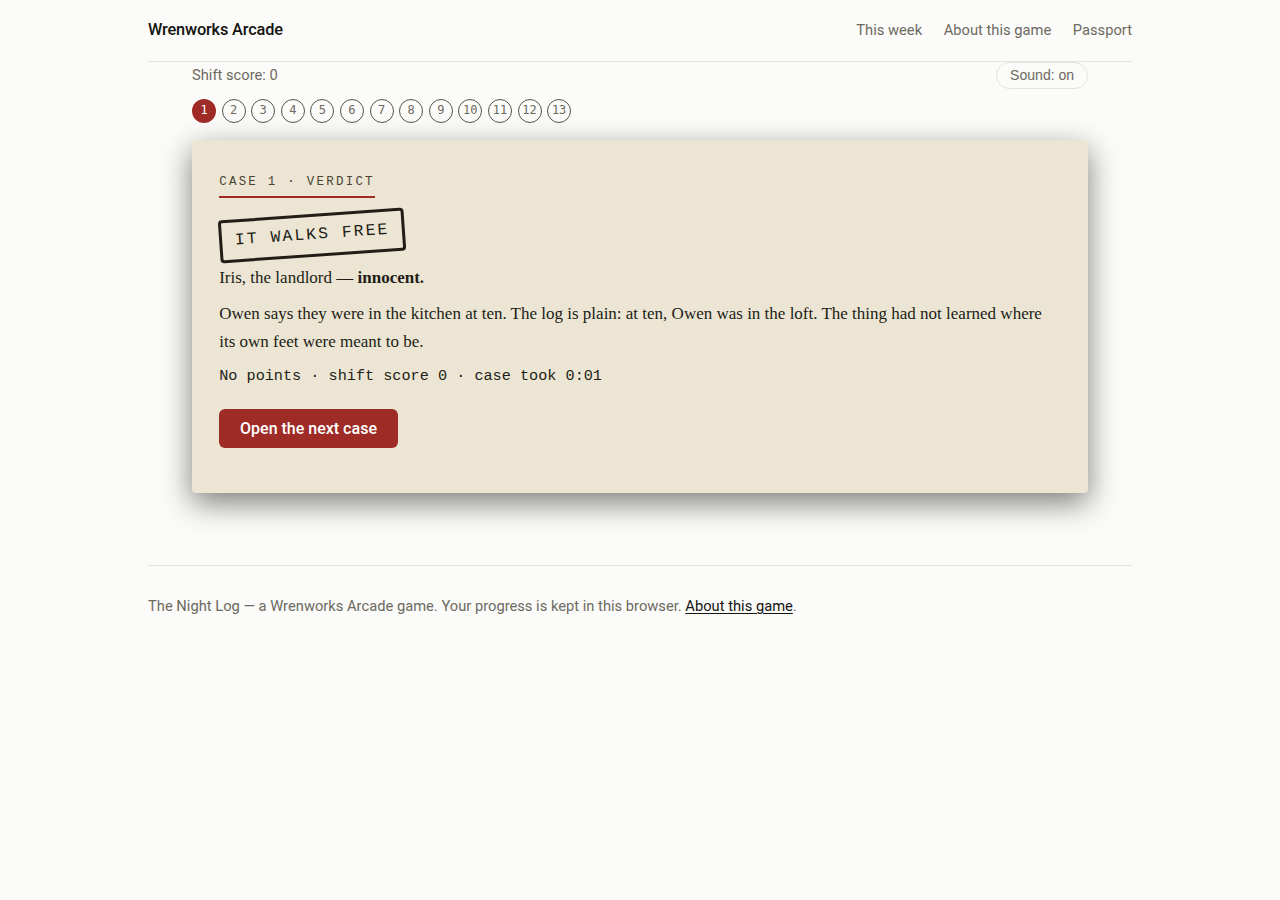
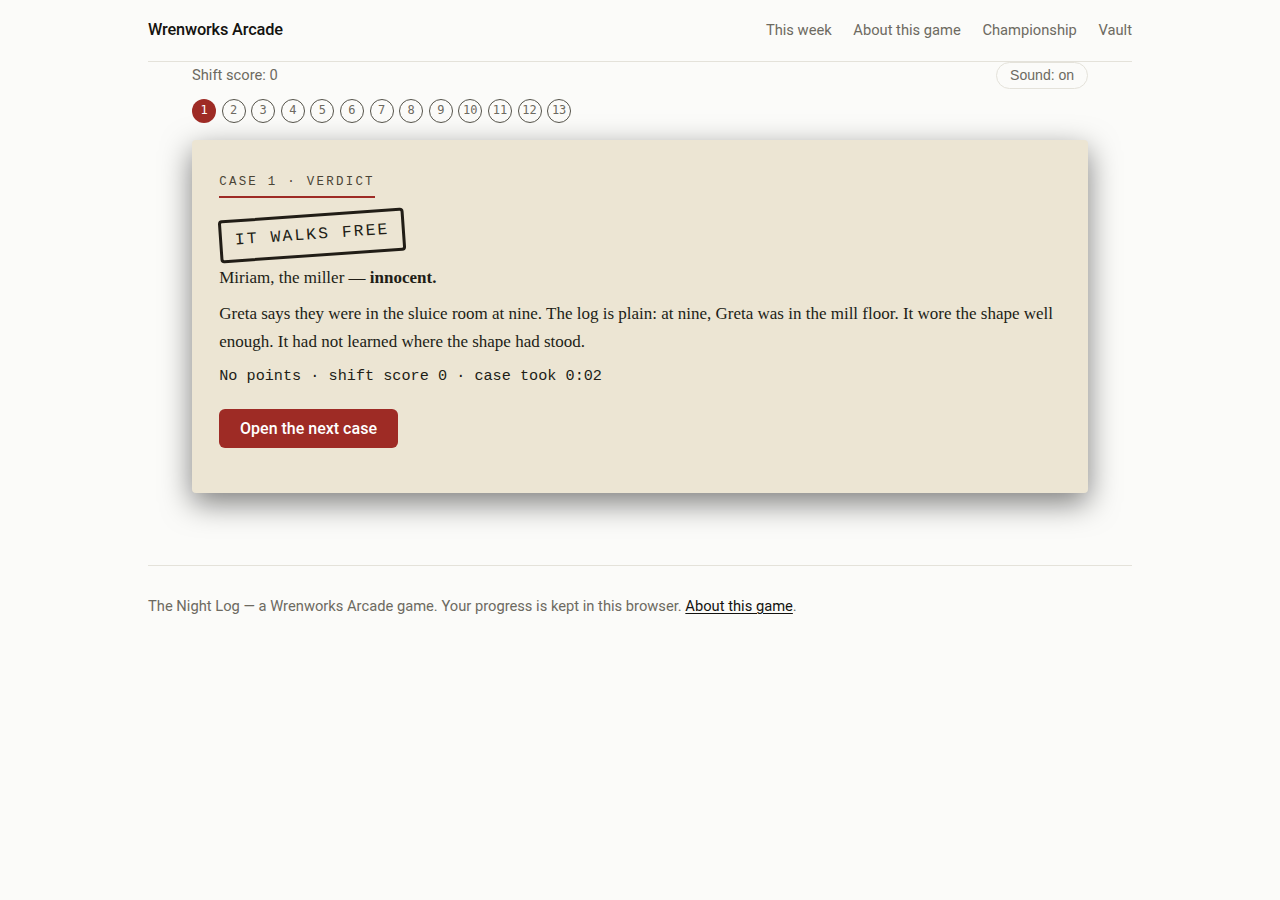
About and Passport pages removed; championship is this game's only
Nav is now This week, Championship, Vault. The championship counts
The Night Log and nothing else — next week's game gets its own.
The footer line about the games living only on this site is gone.
Kit stays named in the signup small print, where the form explains
its confirmation email. The game screenshots were retaken under
the current header, and the start screen now says 'Your record'.

Changed region(s): [[0.1562, 0.28, 0.8125, 0.4044], [0.5938, 0.0311, 0.875, 0.0622]]

diff --git a/championship/index.html b/championship/index.html
@@ -3,17 +3,17 @@
 <head>
 <meta charset="utf-8">
 <meta name="viewport" content="width=device-width, initial-scale=1">
-<title>Arcade Championship — The Wrenworks Arcade</title>
-<meta name="description" content="The all-time Arcade Championship: points for finishing games and winning medals across every game in the Wrenworks Arcade.">
+<title>The Night Log Championship — The Wrenworks Arcade</title>
+<meta name="description" content="The championship for this week's game, The Night Log: your points and medals for this game, kept in your browser for now.">
 <meta property="og:type" content="website">
 <meta property="og:site_name" content="Wrenworks Arcade">
-<meta property="og:title" content="Arcade Championship — The Wrenworks Arcade">
-<meta property="og:description" content="The Arcade Championship: your points for finishing games and winning medals across the Wrenworks Arcade, kept in your browser for now.">
+<meta property="og:title" content="The Night Log Championship — The Wrenworks Arcade">
+<meta property="og:description" content="The championship for this week's game, The Night Log: your points and medals for this game, kept in your browser for now.">
 <meta property="og:url" content="https://wrenly40.github.io/championship/">
 <meta property="og:image" content="https://wrenly40.github.io/games/the-night-log/assets/nightlog-case.png">
 <meta name="twitter:card" content="summary_large_image">
-<meta name="twitter:title" content="Arcade Championship — The Wrenworks Arcade">
-<meta name="twitter:description" content="The Arcade Championship: your points for finishing games and winning medals across the Wrenworks Arcade, kept in your browser for now.">
+<meta name="twitter:title" content="The Night Log Championship — The Wrenworks Arcade">
+<meta name="twitter:description" content="The championship for this week's game, The Night Log: your points and medals for this game, kept in your browser for now.">
 <meta name="twitter:image" content="https://wrenly40.github.io/games/the-night-log/assets/nightlog-case.png">
 <link rel="stylesheet" href="../arcade.css">
 </head>
@@ -25,40 +25,42 @@
   <nav>
     <a href="../index.html">This week</a>
     <a href="index.html" class="here">Championship</a>
-    <a href="../passport/index.html">Passport</a>
     <a href="../vault/index.html">Vault</a>
-    <a href="../about/index.html">About</a>
   </nav>
 </header>
 
 <main>
-<p class="kicker">All-time table</p>
-<h1>The Arcade Championship</h1>
-<p>Every game in the arcade feeds one table. Finish a game and you earn <strong>5 points</strong>. Medals earn more: bronze 10, silver 20, gold 30, and a Wren medal 50. Solving a game's daily-seed case earns 3. The table never resets — it is the long game the weekly games hang on.</p>
+<p class="kicker">Championship · This week's game</p>
+<h1>The Night Log Championship</h1>
+<p>This table belongs to this week's game — it counts The Night Log and nothing else. Finish a shift and you earn <strong>5 points</strong>. Your best medal earns its points on top: bronze 10, silver 20, gold 30, and a Wren medal 50. Next week's game gets a championship of its own.</p>
 <p class="muted">For now, this table is kept in your own browser, on this machine — your points, honestly come by. Shared tables, where everyone can see everyone, arrive when the arcade's score service opens.</p>
 
-<div id="champ-table"><p class="muted">No points yet. Finish this week's game and the first line of this table is yours.</p></div>
+<div id="champ-table"><p class="muted">No points yet. Finish The Night Log and the first line of this table is yours.</p></div>
 
-<h2>Each game's own board</h2>
-<p>Alongside the championship, every game keeps its own leaderboard — a shift score in The Night Log, and whatever each future game measures. A game's board closes when the game goes into the Vault, and the final table stays on its page for good.</p>
+<h2>The shift board</h2>
+<p>Every finished shift also lands on The Night Log's own board, on <a href="../games/the-night-log/index.html">its game page</a> — the scores themselves, shift by shift.</p>
 </main>
 
 <footer class="site">
-  <p>Wrenworks Arcade, made in London. <a href="../about/index.html">About the arcade</a>.</p>
+  <p>Wrenworks Arcade, made in London.</p>
 </footer>
 
 </div>
 <script src="../arcade-api.js"></script>
 <script>
 (function () {
-  var table = ArcadeAPI.getChampionship();
-  if (!table.length) return;
-  var html = '<table class="board"><tr><th>#</th><th>Player</th><th class="num">Points</th></tr>';
-  table.forEach(function (r, i) {
-    html += "<tr><td>" + (i + 1) + "</td><td>" + String(r.name).replace(/</g, "&lt;") +
-      '</td><td class="num">' + r.points + "</td></tr>";
-  });
-  document.getElementById("champ-table").innerHTML = html + "</table>";
+  var slug = "the-night-log";
+  var MEDAL_POINTS = { none: 0, bronze: 10, silver: 20, gold: 30, wren: 50 };
+  var g = ArcadeAPI.getPassport().games[slug];
+  if (!g || !g.plays) return;
+  var points = g.finishes * 5 + (MEDAL_POINTS[g.bestMedal] || 0);
+  var name = String(ArcadeAPI.getName() || "A player").replace(/</g, "&lt;");
+  var html = '<table class="board"><tr><th>Player</th><th class="num">Points</th>' +
+    '<th class="num">Finishes</th><th>Best medal</th><th class="num">Best score</th></tr>' +
+    "<tr><td>" + name + '</td><td class="num">' + points + '</td><td class="num">' + g.finishes +
+    "</td><td>" + ArcadeAPI.MEDAL_LABEL[g.bestMedal] + '</td><td class="num">' + g.bestScore +
+    "</td></tr></table>";
+  document.getElementById("champ-table").innerHTML = html;
 })();
 </script>
 </body>

diff --git a/vault/index.html b/vault/index.html
@@ -25,23 +25,21 @@
   <nav>
     <a href="../index.html">This week</a>
     <a href="../championship/index.html">Championship</a>
-    <a href="../passport/index.html">Passport</a>
     <a href="index.html" class="here">Vault</a>
-    <a href="../about/index.html">About</a>
   </nav>
 </header>
 
 <main>
 <p class="kicker">The Vault</p>
 <h1>Games rest here.</h1>
-<p>Each game in the arcade is playable for its week. When the next game arrives, the old one comes here: its page, its board and its write-up stay, and its medals stay on your passport — it just cannot be played again. If players ask for a game back, loudly enough and often enough, we will hear it.</p>
+<p>Each game in the arcade is playable for its week. When the next game arrives, the old one comes here: its page, its board and its write-up stay, and its medals stay on your record — it just cannot be played again. If players ask for a game back, loudly enough and often enough, we will hear it.</p>
 
 <h2>Resting now</h2>
 <p class="muted">Nothing is resting yet. <a href="../games/the-night-log/index.html">The Night Log</a> is this week's game; when its week ends, it takes its place here.</p>
 </main>
 
 <footer class="site">
-  <p>Wrenworks Arcade, made in London. <a href="../about/index.html">About the arcade</a>.</p>
+  <p>Wrenworks Arcade, made in London.</p>
 </footer>
 
 </div>

diff --git a/index.html b/index.html
@@ -25,9 +25,7 @@
   <nav>
     <a href="index.html" class="here">This week</a>
     <a href="championship/index.html">Championship</a>
-    <a href="passport/index.html">Passport</a>
     <a href="vault/index.html">Vault</a>
-    <a href="about/index.html">About</a>
   </nav>
 </header>
 
@@ -50,7 +48,7 @@
 
 <section class="section" aria-labelledby="signup-h">
   <h2 id="signup-h">Get the next game in your inbox</h2>
-  <p class="muted">One email each Friday, when the new game opens. Nothing else, no selling your address, unsubscribe in one click. Joining takes one extra click: the list service emails you to confirm the address is yours.</p>
+  <p class="muted">One email each Friday, when the new game opens. Nothing else, no selling your address, unsubscribe in one click. Joining takes one extra click: Kit emails you to confirm the address is yours.</p>
   <!-- SIGNUP CONFIG: the form endpoint is the single config value for the
        mailing list (Kit form "Wrenworks Arcade — new game alerts", ID
        10024219). To point the arcade at a different form, change only
@@ -64,7 +62,7 @@
 </main>
 
 <footer class="site">
-  <p>Wrenworks Arcade, made in London. The games live only on this site. <a href="about/index.html">About the arcade and our quality promise</a>.</p>
+  <p>Wrenworks Arcade, made in London.</p>
 </footer>
 
 </div>

diff --git a/play/the-night-log/nightlog.js b/play/the-night-log/nightlog.js
@@ -180,7 +180,7 @@ function showStart() {
   var save = loadSave();
   var passport = API.getPassport();
   var g = passport.games[SLUG];
-  var best = g && g.finishes ? "<p class='muted'>Your passport: " + g.finishes + " shift" + (g.finishes > 1 ? "s" : "") +
+  var best = g && g.finishes ? "<p class='muted'>Your record: " + g.finishes + " shift" + (g.finishes > 1 ? "s" : "") +
     " finished · best medal " + API.MEDAL_LABEL[g.bestMedal] + " · best score " + g.bestScore + ".</p>" : "";
   var daily = Core.generateDailyCase(todayStr());
   root.innerHTML =

diff --git a/play/the-night-log/index.html b/play/the-night-log/index.html
@@ -26,7 +26,8 @@
   <nav>
     <a href="../../index.html">This week</a>
     <a href="../../games/the-night-log/index.html">About this game</a>
-    <a href="../../passport/index.html">Passport</a>
+    <a href="../../championship/index.html">Championship</a>
+    <a href="../../vault/index.html">Vault</a>
   </nav>
 </header>
 

diff --git a/games/the-night-log/index.html b/games/the-night-log/index.html
@@ -25,9 +25,7 @@
   <nav>
     <a href="../../index.html">This week</a>
     <a href="../../championship/index.html">Championship</a>
-    <a href="../../passport/index.html">Passport</a>
     <a href="../../vault/index.html">Vault</a>
-    <a href="../../about/index.html">About</a>
   </nav>
 </header>
 
